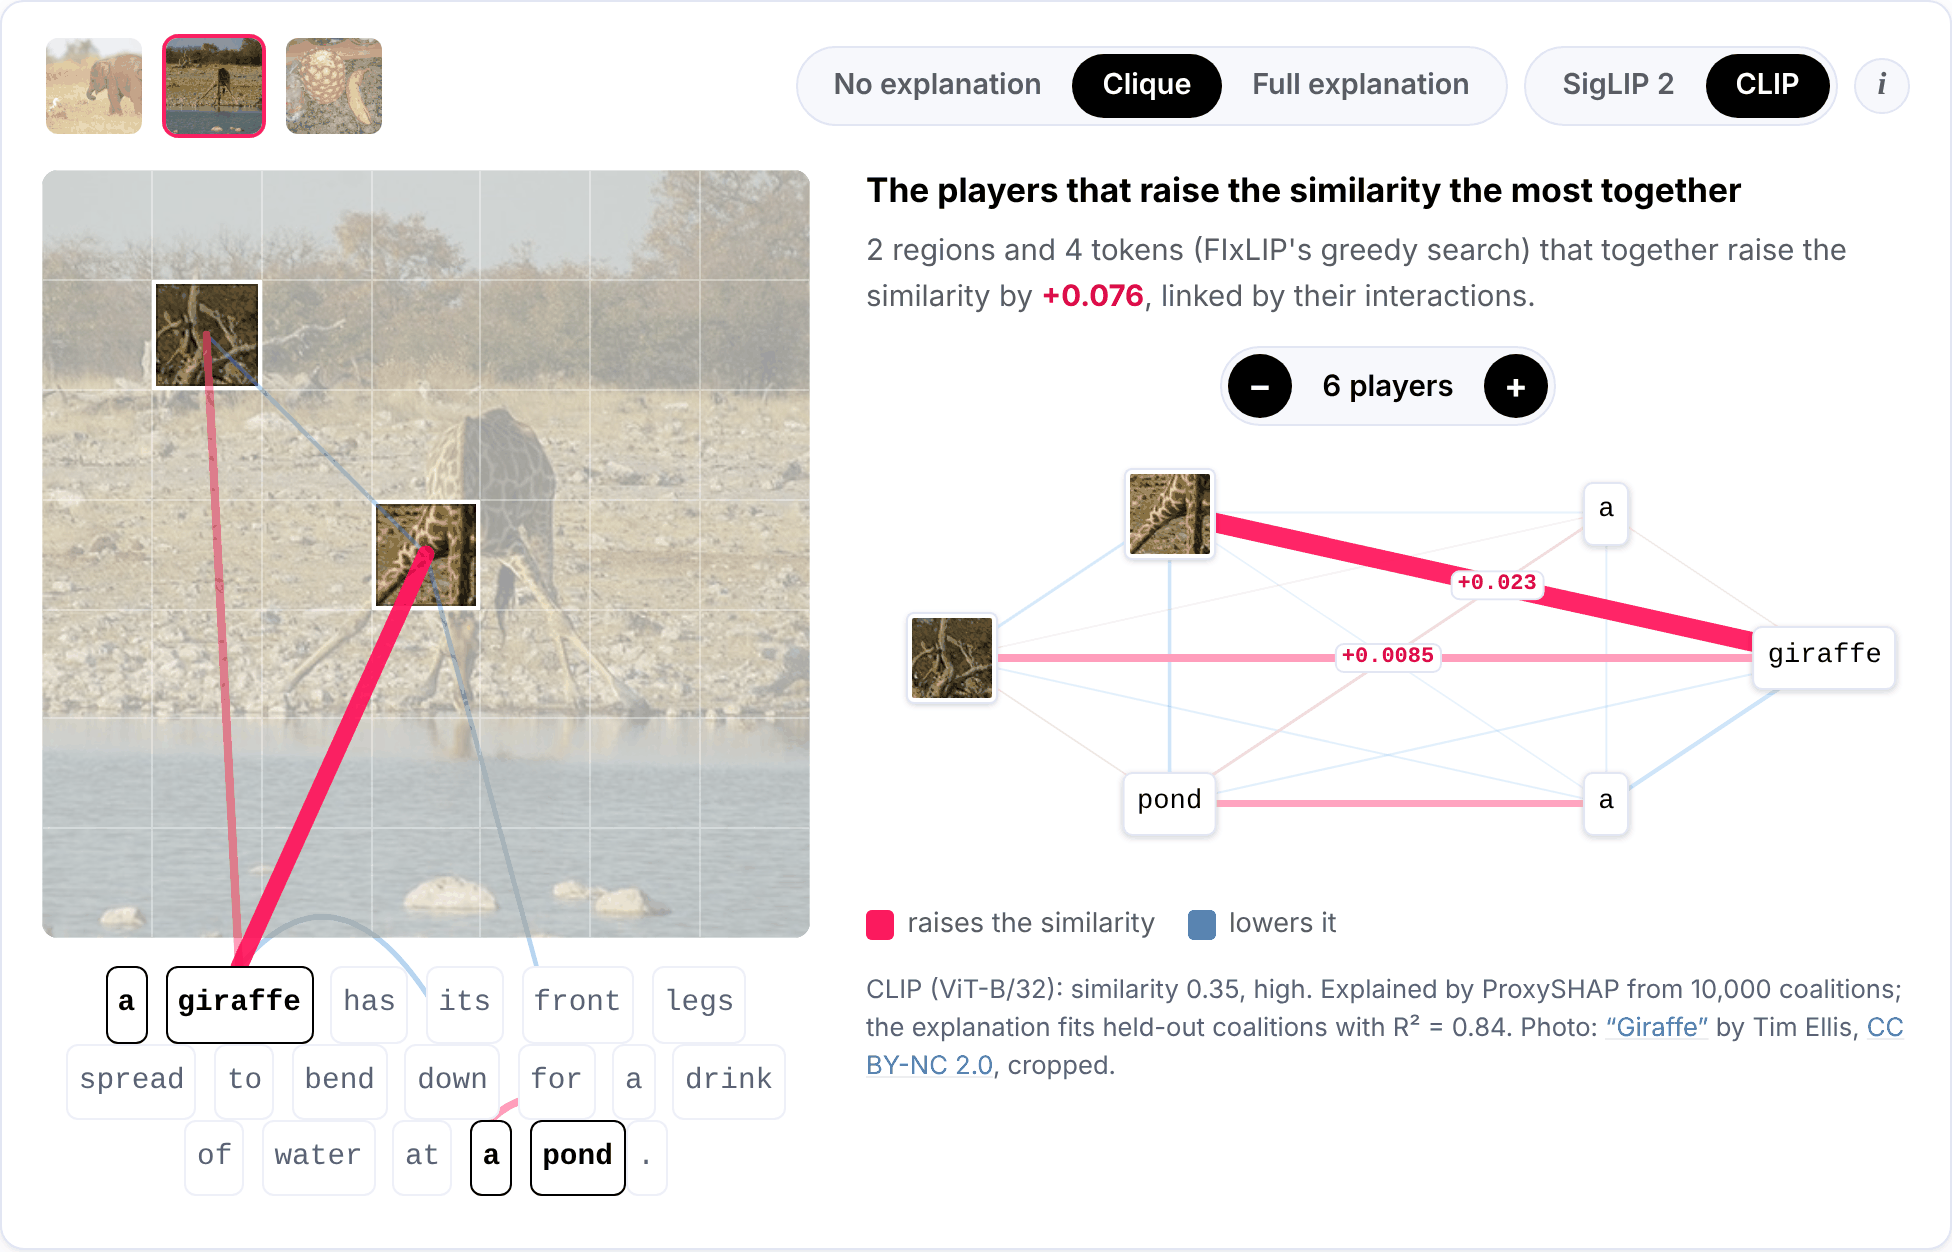
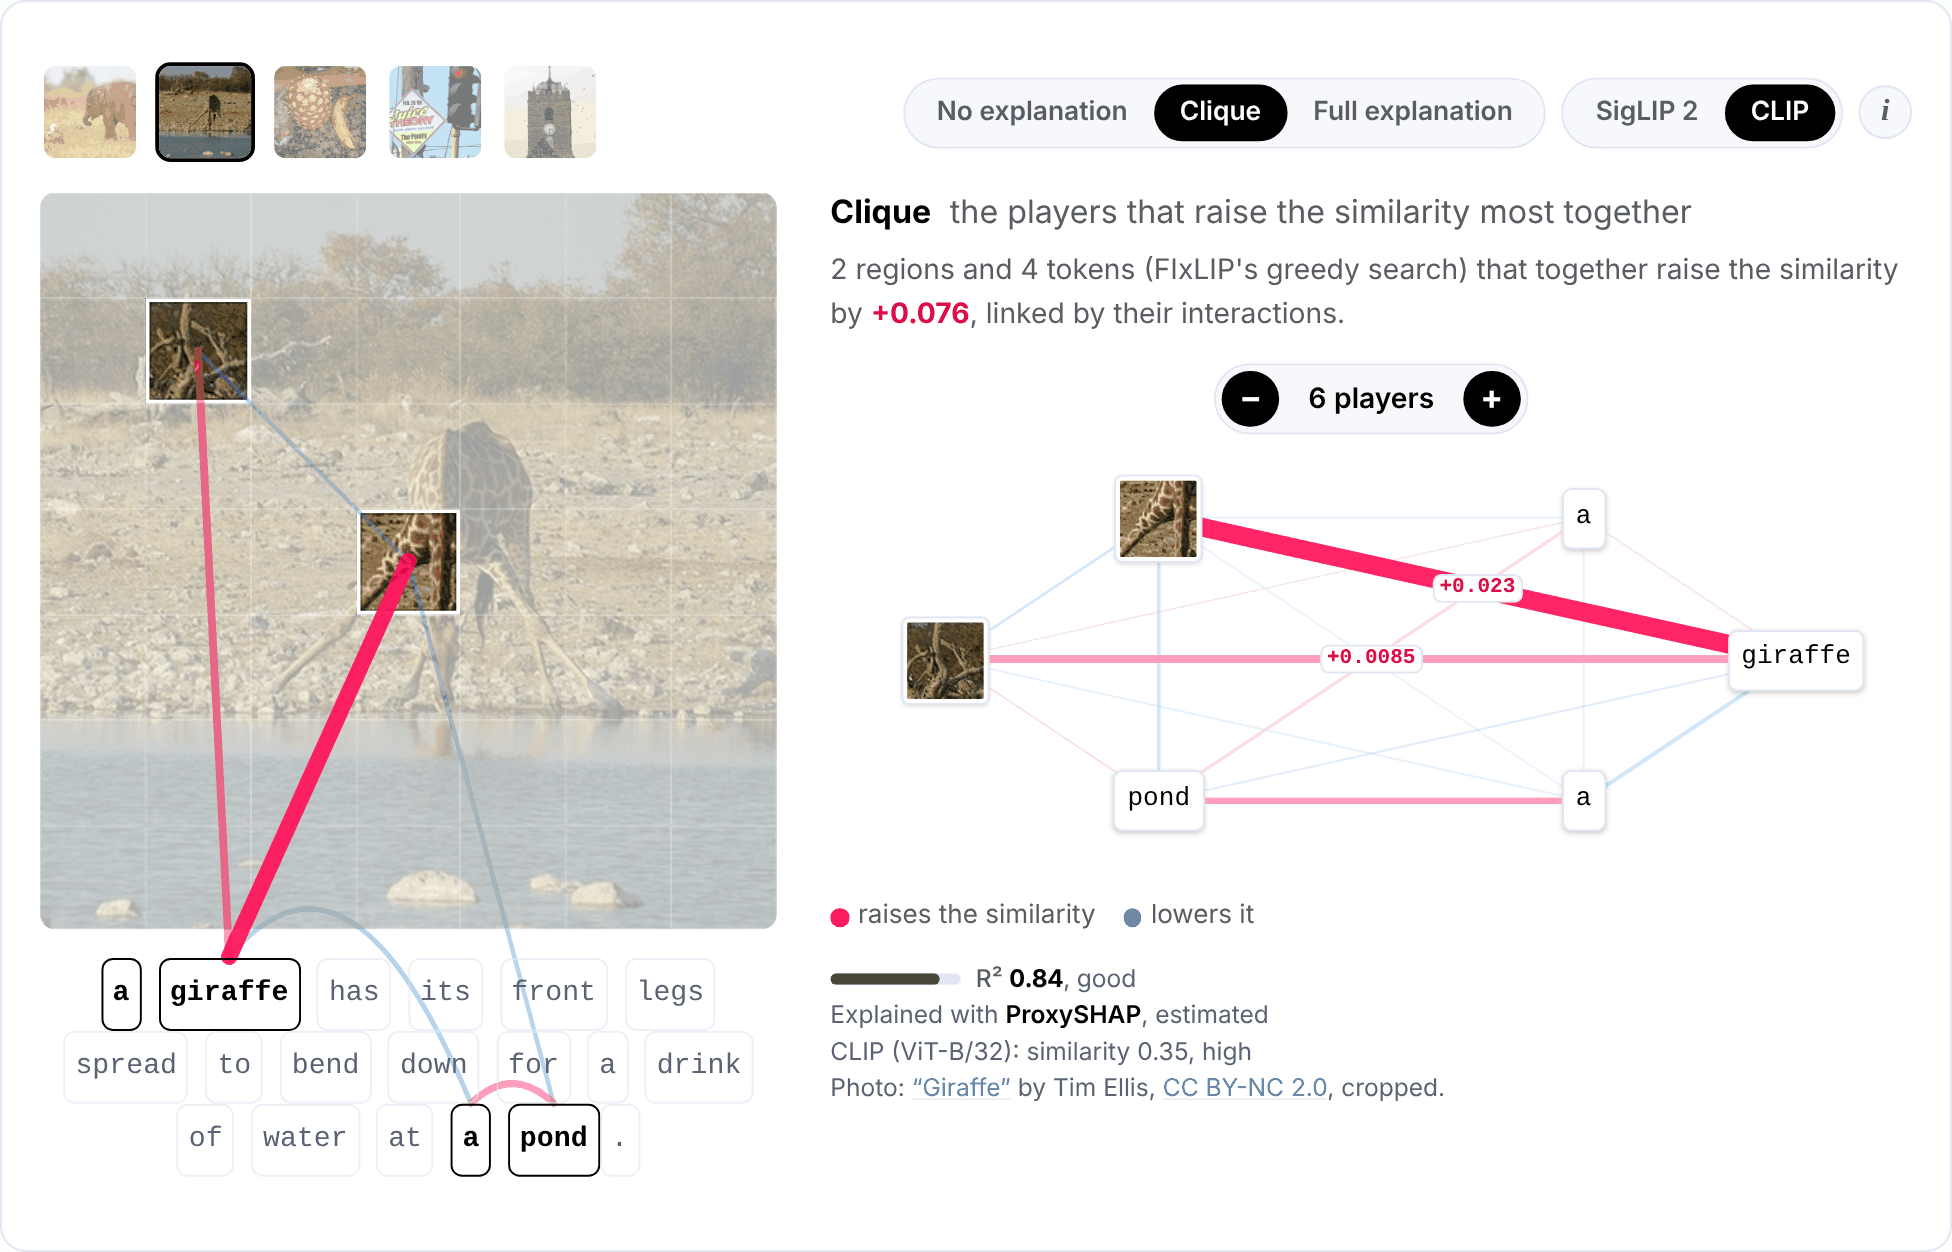
FIxLIP demo: a new card image, in the demo's current look
The Demos gallery's card for FIxLIP showed the demo before this branch
changed it. It is retaken in the same state (the giraffe, "Clique", CLIP,
6 players), now with five photos, the new title row and the R^2 bar, and
without the invitation over the photo. It is framed like the orders
demo's card. The demos README says how the cards' images are made.

Claude-Session: https://claude.ai/code/session_019qiuyEoqTxUYBXqUZ7PZqM

diff --git a/docs/source/demos/README.md b/docs/source/demos/README.md
@@ -43,4 +43,7 @@ in `conf.py`).
 
 1. Make the folder `demos/<name>/` with `index.rst`, `assets/demo.js`, `assets/demo.css` and the
    data, and `compute/` with the scripts that computed the data and a README on how to run them.
-2. Add a card for it to `demos/index.rst` and its page to the toctree there.
+2. Add a card for it to `demos/index.rst` and its page to the toctree there. The cards' images
+   (`_static/images/hero_<name>_demo.png`) are screenshots of the demos, 1952 x 1252: the demo at
+   about 2x, in the middle of a white frame with a 2 px `#e2e6f3` edge and 26 px corners, so that
+   the cards match (see `orders/README.md`).
